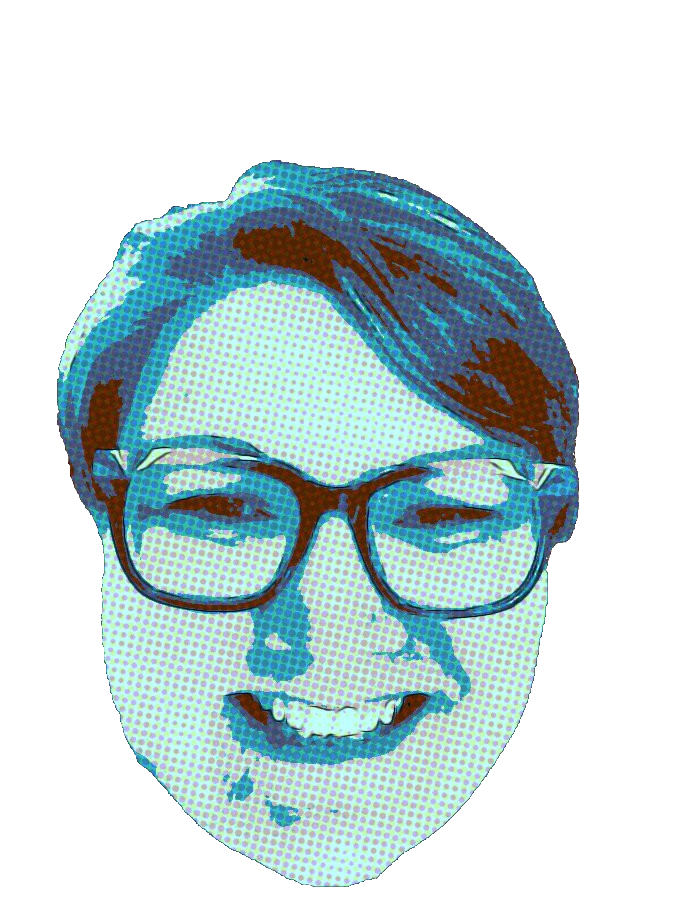
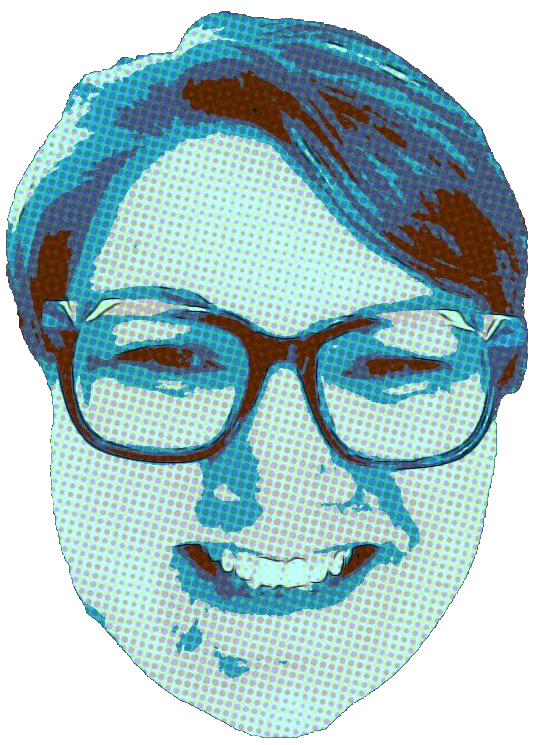
working on layout

diff --git a/client/src/pages/HomePage.vue b/client/src/pages/HomePage.vue
@@ -20,74 +20,47 @@ const mixed = computed(()=>{
       <!-- INTRODUCTION -->
       <section class="row text-center bg-none bdy align-items-center p-5 mx-0 justify-content-center">
         <div class="bg-none col-8">
-          <h1 class="text-center">Anne Hunt:</h1>
+          <h1 class="text-center">Anne Hunt</h1>
+          <img src="../assets/img/3dheadshot.png" alt="" class="head">
         </div>
         </section>
-        <!-- <section class="row bg-none"> -->
-          <!-- <div class="col-6 bg-page text-end">
-                <div class="p-5 jello-horizontal">
-                  <div id="screencarousel" class="carousel slide carousel-fade display border">
-                    <div class="carousel-inner">
-                      <div class="carousel-item active flicker-1">
-                        <img src="../assets/img/display.png" class="d-block w-100" alt="...">
-                      </div>
-                      <div class="carousel-item flicker-1">
-                        <img src="../assets/img/csharp.png" class="d-block w-100" alt="...">
-                      </div>
-                      <div class="carousel-item flicker-1">
-                        <img src="../assets/img/vue.png" class="d-block w-100" alt="...">
-                      </div>
-                      <div class="carousel-item flicker-1">
-                        <img src="../assets/img/mongo.png" class="d-block w-100" alt="...">
-                      </div>
-                      <div class="carousel-item flicker-1">
-                        <img src="../assets/img/postman.png" class="d-block w-100" alt="...">
-                      </div>
-                      <div class="carousel-item flicker-1">
-                        <img src="../assets/img/minecraft.png" class="d-block w-100" alt="...">
-                      </div>
-                    </div>
-                  </div>
-      
-                </div>
-              KEYBOARD
-              <i class="mdi mdi-mouse fs-1" type="button" data-bs-target="#screencarousel" data-bs-slide="next"></i>
-            </div> -->
-          <!-- <div class="container-flex screen text-center p-0"> -->
-            <div class="row m-0 p-0 screen">
-              <div class="col-1 p-0 m-0"></div>
-              <div class="col-10 p-0">
-                <div class="row p-0 m-0">
-
-                  <div class="col text-focus-in second fs-2 text-success p-0">Vue.js</div>
-                  <div class="col text-nowrap text-focus-in third fs-2 text-warning p-0">critical thinking</div>
+        <section class="row m-0 p-0 screen">
+          <div class="col-1 p-0 m-0"></div>
+          <div class="col-10 p-0">
+            <div class="row p-0 m-0">
+              <div class="col text-focus-in second fs-2 text-success p-0">Vue.js</div>
+              <div class="col text-nowrap text-focus-in third fs-2 text-warning p-0">critical thinking</div>
               <div class="col text-focus-in fourth fs-2 text-success p-0">HTML</div>
-            <div class="col p-0"><h2 class="text-focus-in p-0">developer</h2></div>
-            <div class="col text-focus-in fs-2 text-warning p-0">integrity</div>
-            <div class="col text-focus-in second fs-2 text-success p-0">Javascript</div>
-            <div class="col text-focus-in fourth fs-2 text-info p-0">coding</div>
-            <div class="col text-focus-in third fs-2 text-warning p-0">versatile</div>
-            <div class="col fs-2 text-focus-in second p-0">creator</div>
-            <div class="col text-focus-in fourth fs-2 text-success p-0">MongoDB</div>
-            <div class="col text-focus-in fs-2 text-warning p-0">progress</div>
-            <div class="col text-focus-in third fs-2 text-success p-0">C#</div>
-            <div class="col text-focus-in second fs-2 text-info p-0">testing</div>
-            <div class="col p-0"><h2 class="text-focus-in text-nowrap third p-0">problem-solver</h2></div>
-            <div class="col text-focus-in fs-2 text-success p-0">.NET</div>
-            <div class="col text-focus-in second fs-2 text-info p-0">design</div>
-            <div class="col text-focus-in fourth fs-2 text-warning p-0">creativity</div>
-            <div class="col text-focus-in fs-2 text-success p-0">CSS</div>
-            <div class="col p-0"><h2 class="text-nowrap text-focus-in fourth p-0">full stack</h2></div>
-            <div class="col text-focus-in third fs-2 text-info p-0">logic</div>
-            <div class="col text-focus-in fs-2 text-warning p-0">writing</div>
-            <div class="col text-focus-in text-nowrap fourth fs-2 text-info p-0">always learning</div>
-            <div class="col text-focus-in second fs-2 text-success p-0">SQL</div>
+              <div class="col p-0">
+                <h2 class="text-focus-in p-0">developer</h2>
+              </div>
+              <div class="col text-focus-in fs-2 text-warning p-0">integrity</div>
+              <div class="col text-focus-in second fs-2 text-success p-0">Javascript</div>
+              <div class="col text-focus-in fourth fs-2 text-info p-0">coding</div>
+              <div class="col text-focus-in third fs-2 text-warning p-0">versatile</div>
+              <div class="col fs-2 text-focus-in second p-0">creator</div>
+              <div class="col text-focus-in fourth fs-2 text-success p-0">MongoDB</div>
+              <div class="col text-focus-in fs-2 text-warning p-0">progress</div>
+              <div class="col text-focus-in third fs-2 text-success p-0">C#</div>
+              <div class="col text-focus-in second fs-2 text-info p-0">testing</div>
+              <div class="col p-0">
+                <h2 class="text-focus-in text-nowrap third p-0">problem-solver</h2>
+              </div>
+              <div class="col text-focus-in fs-2 text-success p-0">.NET</div>
+              <div class="col text-focus-in second fs-2 text-info p-0">design</div>
+              <div class="col text-focus-in fourth fs-2 text-warning p-0">creativity</div>
+              <div class="col text-focus-in fs-2 text-success p-0">CSS</div>
+              <div class="col p-0">
+                <h2 class="text-nowrap text-focus-in fourth p-0">full stack</h2>
+              </div>
+              <div class="col text-focus-in third fs-2 text-info p-0">logic</div>
+              <div class="col text-focus-in fs-2 text-warning p-0">writing</div>
+              <div class="col text-focus-in text-nowrap fourth fs-2 text-info p-0">always learning</div>
+              <div class="col text-focus-in second fs-2 text-success p-0">SQL</div>
+            </div>
           </div>
-        </div>
-        <div class="col-1 p-0 m-0"></div>
-          </div>
-        <!-- </div> -->
-      <!-- </section> -->
+          <div class="col-1 p-0 m-0"></div>
+        </section>
       <!--SHOW OFF-->
       <!-- FEATURED PROJECT -->
       <FeaturedProject/>
@@ -95,7 +68,7 @@ const mixed = computed(()=>{
       <AboutMe/>
       <!-- PORTFOLIO  -->
       <Portfolio/>
-      <!-- RESUME -->
+      <!-- SKILLS -->
       <Skills/>
       <!-- CONTACT -->
       <Contact/>
@@ -109,6 +82,10 @@ h1, h2, h3, h4, h5{
   font-style: normal;
 }
 
+.head{
+  height: 50dvh;
+  width: auto;
+}
 .display{
   width: 50dvh;
   height: auto;

diff --git a/client/src/pages/AboutPage.vue b/client/src/pages/AboutPage.vue
@@ -3,91 +3,14 @@
 </script>
 
 <template>
-    <div class="keeb p-5">
-        <Keyboard/>
-    </div>
-  <div class="about">
-    <h1>This is the about page</h1>
-  </div>
-  <section class="row">
-    <div class="col-9 p-3">
-                <div class="education ps-2">
-                    <h2 class="border-bottom border-5">Education</h2>
-                    <div class="school">
-                        <h4 class="institution">Boise Codeworks</h4>
-                        <span class="city">Boise, ID</span><span class="time">(2024)</span><br>
-                        <span class="degree">Immersive Full Stack</span>
-                        <p class="learned">HTML, CSS, Javascript, Python, C#</p>
-                    </div>
-                    <div class="school">
-                        <h4 class="institution">University of Wisconsin-Milwaukee</h4>
-                        <span class="city">Milwaukee, WI</span><span class="time">(2010-2011)</span><br>
-                        <span class="degree">PhD (unfinished) Composition and Rhetoric</span>
-                        <p class="learned">Teaching, philosophy, history of education and pedagogy</p>
-                    </div>
-                    <div class="school">
-                        <h4 class="institution">University of Wyoming</h4>
-                        <span class="city">Laramie, WY</span>
-                        <span class="time">(2008-2010)</span><br>
-                        <span class="degree">Master of Arts in Theory and Pedagogy of Composition and Rhetoric</span>
-                        <p class="learned">Digital media use in pedagogy, creation of digital media, analysis, writing,
-                            Adobe Creative Suite</p>
-                    </div>
-                    <div class="school">
-                        <h4 class="institution">Black Hills State University</h4>
-                        <span class="city">Spearfish, SD</span>
-                        <span class="time">(2004-2008)</span><br>
-                        <span class="degree">Bachelor of Arts in English</span>
-                        <span class="minors">Writing, Library Science, Spanish</span>
-                        <p class="learned">Writing, pedagogy, content and marketing media, analysis</p>
-                    </div>
-                </div>
+<section class="row p-3 bg-light">
+      <h1>About Anne Hunt</h1>
+      <div class="col">
 
-                <div class="workhistory">
-                    <h2 class="border-bottom border-5">Employment</h2>
-                    <div class="job">
-                        <h4 class="jobtitle">Owner</h4>
-                        <span class="company">Quick Wit Marketing</span>
-                        <span class="time">(2015-2019)</span>
-                        <p class="responsibilities">Maintaining online marketing presences for local businesses,
-                            acquiring clients, project management, event coordination</p>
-                        <p class="skillsreq">Content creation, basic web development</p>
-                    </div>
-                    <div class="job">
-                        <h4 class="jobtitle">Marketing Manager</h4>
-                        <span class="company">Atlas Resell Management</span>
-                        <span class="time">(2011-2015)</span>
-                        <p class="responsibilities">Data management, planning and deploying marketing strategies</p>
-                        <p class="skillsreq">Excel, MySQL, content writing, project management, SEO</p>
-                    </div>
-                    <div class="job">
-                        <h4 class="jobtitle">Communications Director</h4>
-                        <span class="company">Milwaukee Graduate Assistant Association</span>
-                        <span class="time">(2010-2011)</span>
-                        <p class="responsibilities">Communication with members regarding contract negotiations, event
-                            planning and coordination</p>
-                        <p class="skillsreq">Wordpress, social media, organization</p>
-                    </div>
-                    <div class="job">
-                        <h4 class="jobtitle">Instructor</h4>
-                        <span class="company">University of Wisconsin-Milwaukee</span>
-                        <span class="time">(2010-2011)</span><br>
-                        <span class="company">University of Wyoming</span>
-                        <span class="time">(2008-2010)</span>
-                        <p class="responsibilities">Teaching required English composition courses to students from a
-                            diverse range of backgrounds</p>
-                        <p class="skillsreq">Understanding of pedagogy, digital media use in classroom</p>
-                    </div>
-                    <div class="job">
-                        <h4 class="jobtitle">Marketing and Media Content Writer</h4>
-                        <span class="company">Black Hills State University</span>
-                        <span class="time">(2006-2008)</span>
-                        <p class="responsibilities">Writing press releases, marketing content, and reporting on campus
-                            events</p>
-                        <p class="skillsreq">HTML, SEO, writing</p>
-                    </div>
-                </div>
-            </div>
+      </div>
+    <div class="col p-3">
+        <img src="../assets/img/dotsheadshot.png" alt="">
+    </div>
   </section>
 </template>
 
